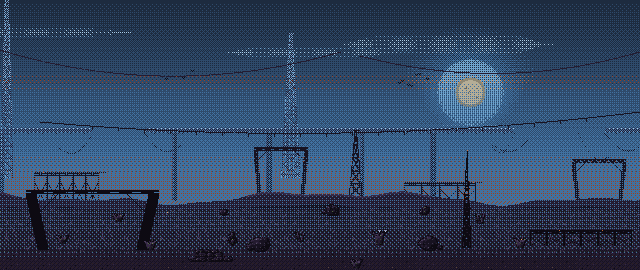
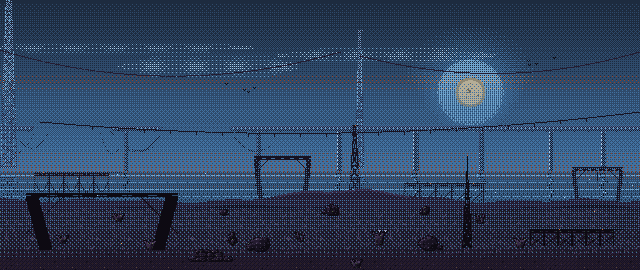
feat(scene): 湖面倒影(px.water) + 四时段天空切换(昼/昏/夜/血月) + 信标灯闪 + steel-times 循环演示

diff --git a/tools/make_showcase.py b/tools/make_showcase.py
@@ -395,7 +395,8 @@ def build_keyart(use_cache: bool = True):
 
 
 def build_steel_scene(use_cache: bool = True):
-    """白昼·钢铁巨构平原（远景钢铁巨构 / 中景干草原 / 近景行走地图）。"""
+    """王国画风钢铁平原：白昼动图 + 四时段循环（day/dusk/night/bloodmoon）。"""
+    import shutil as _sh
     out = CACHE / "steel-plains"
     if not (use_cache and (out / "steel-plains-day.aseprite").is_file()):
         r = subprocess.run(
@@ -405,11 +406,32 @@ def build_steel_scene(use_cache: bool = True):
         if r.returncode != 0:
             print(f"⚠ 钢铁平原场景渲染失败：{r.stdout[-200:]}")
             return
-    import shutil as _sh
     for name in ("steel-plains-day.gif", "steel-plains-day.png"):
         src = out / name
         if src.is_file():
             _sh.copyfile(src, ASSETS / name)
+
+    # 四时段循环（每个时段 4 帧）
+    times = ["day", "dusk", "night", "bloodmoon"]
+    cycle = []
+    for t in times:
+        tout = CACHE / f"steel-time-{t}"
+        if not (use_cache and (tout / "steel-plains-day_f4.png").is_file()):
+            r = subprocess.run(
+                [sys.executable, str(ROOT / "scripts" / "forge.py"), "scene",
+                 str(SCENE_STEEL), "--out", str(tout), "--time", t, "--frames", "4"],
+                capture_output=True, text=True, encoding="utf-8", errors="replace")
+            if r.returncode != 0:
+                print(f"⚠ 时段 {t} 渲染失败：{r.stdout[-160:]}")
+                return
+        fs = [tout / "steel-plains-day.png"]
+        fs += [tout / f"steel-plains-day_f{i}.png" for i in (2, 3, 4)]
+        if all(f.is_file() for f in fs):
+            cycle += [Image.open(f).convert("RGBA") for f in fs]
+    if len(cycle) == 16:
+        save_gif(cycle, ASSETS / "steel-times.gif", duration=240)
+    else:
+        print(f"⚠ 时段循环帧不完整：{len(cycle)}/16")
 
 
 def build_variants_gif():
@@ -501,7 +523,7 @@ def main():
 
     for name in ("hero-scene.gif", "hero-scene.png", "tree-sway.gif",
                  "keyart-bloodmoon.gif", "daynight.gif", "daynight.png",
-                 "steel-plains-day.gif", "steel-plains-day.png",
+                 "steel-plains-day.gif", "steel-plains-day.png", "steel-times.gif",
                  "variants.gif", "evolution.png"):
         p = ASSETS / name
         if p.is_file():

diff --git a/references/workflow.md b/references/workflow.md
@@ -96,12 +96,14 @@ python scripts/forge.py scene scenes/<场景>.lua --out <目录> --size 320x135 
 | `sprite` | 放入素材（底部中心锚；有 `{name}_f2..` 时自动按相位播放多帧） | folder/name/x/y |
 | `grade` | 时段调色（ramp→ramp 抖动交叉） | preset |
 | `light` | 火把光池（芯+晕双源、地面椭圆）+ 火焰 + 暖色池 | x/y/r/core_r/strength/squash/warm_r/flame |
-| `fog` | 大气雾（深度梯度 / `field` 自定义雾带函数） | ramp/y0/strength/baseLevel/field |
+| `water` | 湖面倒影（王国标志）：镜像上方画面 + 降档变暗 + 抖动混水色 + 波纹线与粼光 | y/depth/ramp/base_level/tint/darken/wobble/wave_period |
+| `fog` | 大气雾（深度梯度 / `field` 自定义雾带函数；`atmo=true` 时随时间换雾色） | ramp/y0/strength/baseLevel/field/atmo |
 | `rays` | 光束（可 ember 色光柱） | x/y/angle/spread/count/strength |
 | `embers` | 余烬/萤火粒子 | count/范围 |
 | `fg_band` | 前景剪影框景 | y/amplitude/density |
 
-- **时段系统**：`times = { day = { sky_ramp=, sky_from=, sky_to=, hide={...}, moon_corrupt=, grade=, fog_strength= }, ... }`；
+- **时段系统**：`times = { day = { sky_ramp=, sky_from=, sky_to=, hide={...}, moon_corrupt=, moon_ramp=, grade=, fog_ramp=, cloud_ramp=, water_ramp=, fog_strength= }, ... }`；
+  同一剪影换天空（王国式）：只需要换天空 ramp / 雾色 / 水色 / 月球色，构图不动；
 - **调色预设**：`grades = { bloodmoon = { ["foliage_dark"] = { target="shadow", blend=0.8 }, ... } }`
   （blend 为抖动量，0–1；色板安全，无混色）；
 - **光源写法要点**：`light` 用“内核+光晕”双源（`core_r` 小半径高亮 + `r` 宽半径柔光），

diff --git a/README.md b/README.md
@@ -28,8 +28,12 @@ Programmatic pixel-art studio for AI agents: drive [Aseprite](https://www.asepri
 
 ![钢铁平原](assets/steel-plains-day.gif)
 
-> 《王国：两位君主》画法：**渐变蓝天 + 单色剪影（三级暗度纵深）+ 暖窗灯点**；
-> 巨构为外露钢骨架（绗架塔/钢拱门/骨架大厅），细节留给观者想象；风吹草簇为原生 4 帧动画。
+| 同一剪影 × 四时段（昼 / 黄昏 / 夜 / 血月） |  |
+|---|---|
+| ![steel times](assets/steel-times.gif) |  |
+
+> 《王国：两位君主》画法：**渐变天空 + 单色剪影（三级暗度纵深）+ 暖窗点/信标闪烁 + 湖面倒影**；
+> 昼/黄昏/夜/血月四时段一键切换（`--time`）；风吹草簇为原生 4 帧动画。
 
 ## 这是什么
 
